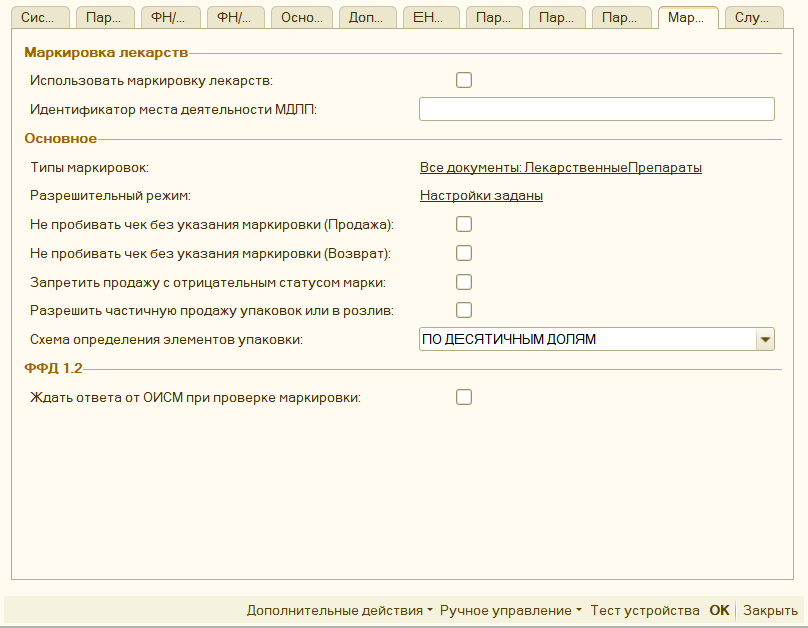
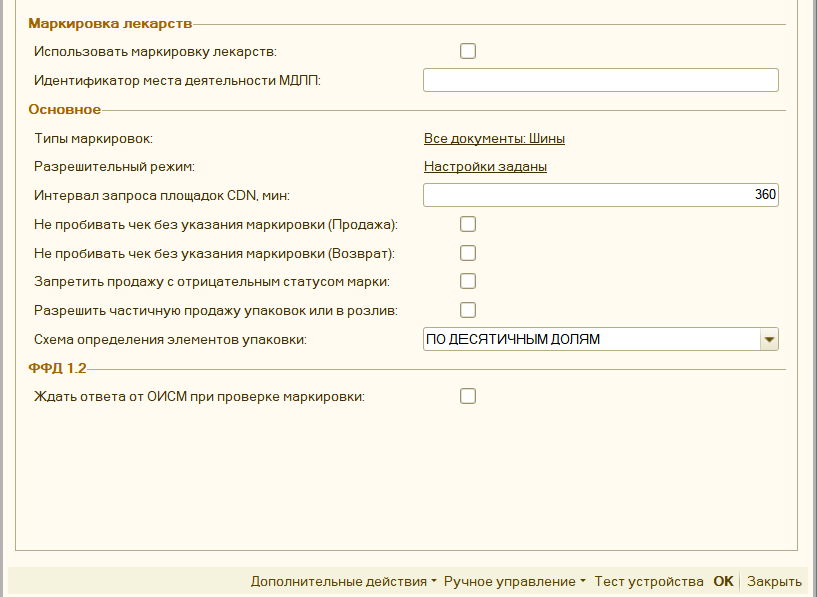
3.82

Changed region(s): [[0.0, 0.0, 1.0, 1.0], [0.9282, 0.3015, 0.9592, 0.3618]]

diff --git a/docs/parameters_description.md b/docs/parameters_description.md
@@ -204,6 +204,8 @@ hide:
 
 **«Разрешительный режим»** - позволяет настроить разрешительный режим продажи маркированного товара. См. [Разрешительный режим продажи маркировки](marking.md#разрешительный-режим-продажи-маркировки)
 
+**«Интервал запроса площадок CDN, мин.»** - период, в течение которого список запрошенных площадок CDN для проверки маркировки считается актуальным. Запрос площадок происходит в момент проверки чеков, поэтому первый чек в таком интервале может пробиваться с задержкой.
+
 **«Не пробивать чек без указания маркировки «ПРОДАЖА»** - если в чеке используется продукция с маркировкой, то чек на Приход не будет пробит, если какая-то позиция не будет заполнена.
 
 **«Не пробивать чек без указания маркировки «ВОЗВРАТ»** - если в чеке используется продукция с маркировкой, то чек на Возврат не будет пробит.
